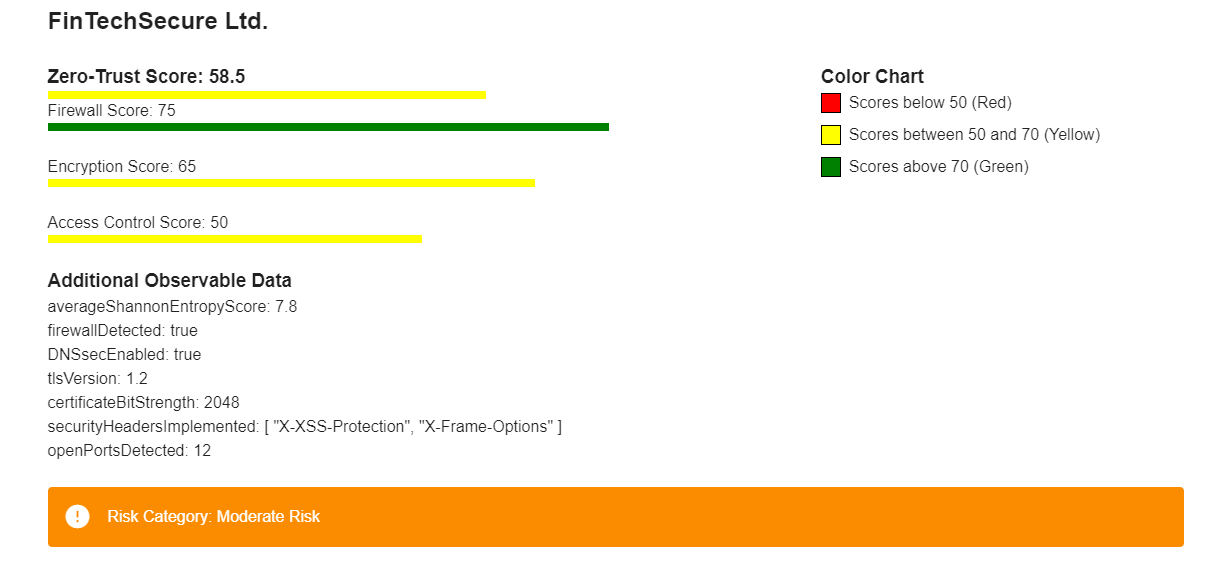
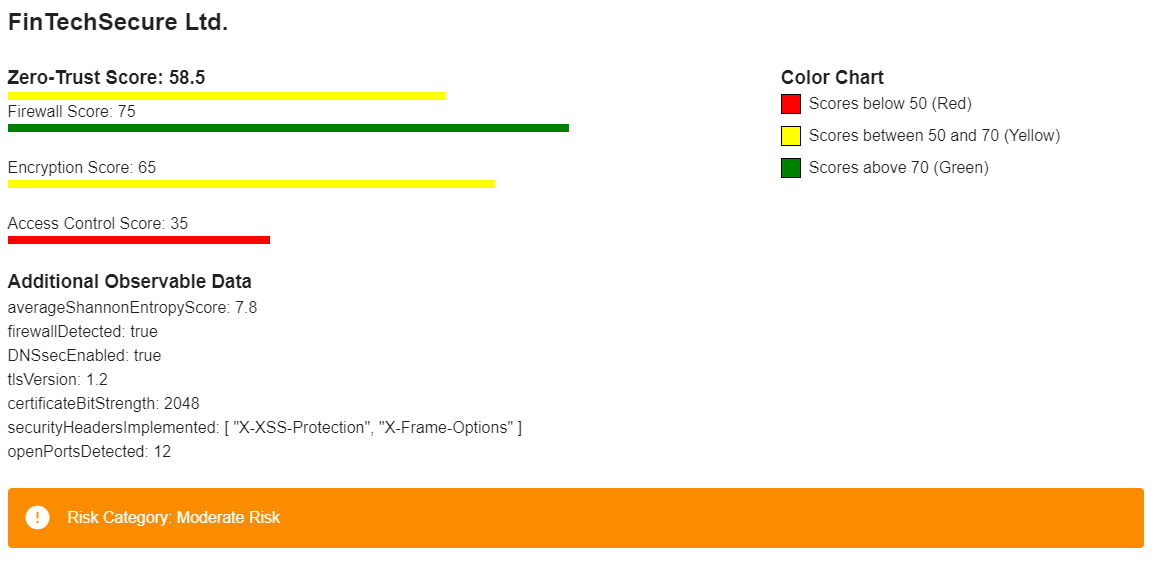
changes

diff --git a/Part3/score-widget/src/components/ZeroTrustScoreWidget.vue b/Part3/score-widget/src/components/ZeroTrustScoreWidget.vue
@@ -81,7 +81,7 @@ export default {
         metrics: {
           "Firewall Score": 75,
           "Encryption Score": 65,
-          "Access Control Score": 50,
+          "Access Control Score": 35,
         },
         observableData: {
           averageShannonEntropyScore: 7.8,
